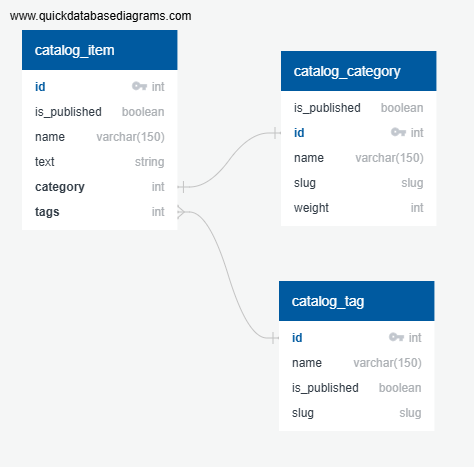
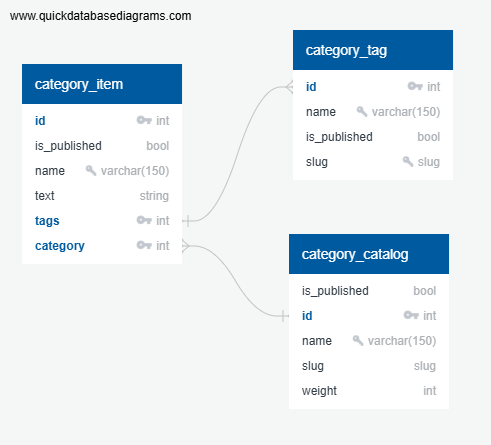
readme

diff --git a/README.md b/README.md
@@ -64,6 +64,8 @@ copy .env.example .env
 ```
 Копирование из .env.example примера в .env
 
+### ER диаграма базы данных
+![ER-диаграмма проекта](ER.jpg)
 ### Запуск приложения в dev режиме
 Переходим в папку, в которой есть manage.py и запускаем
 ```bash
